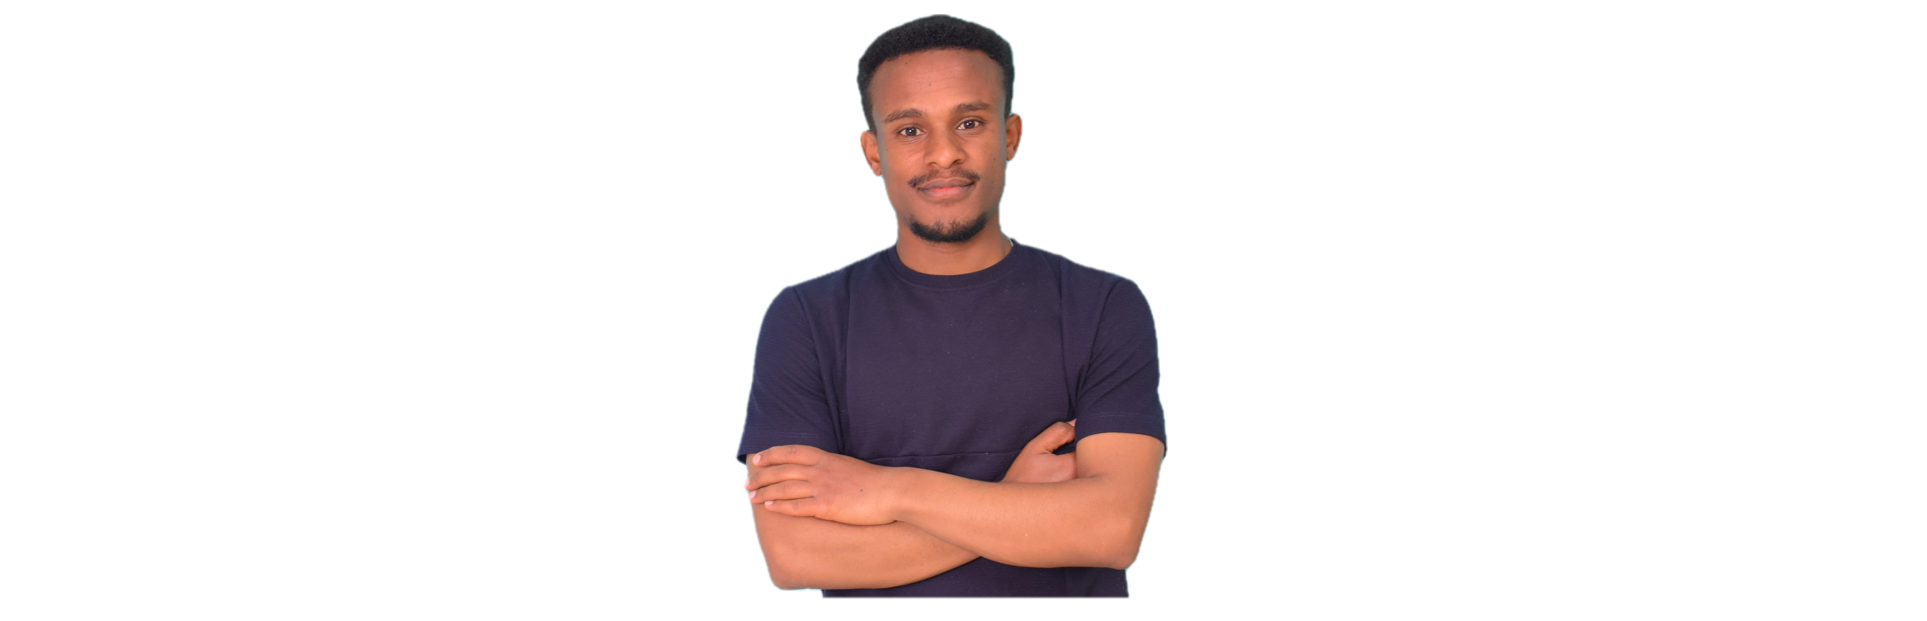
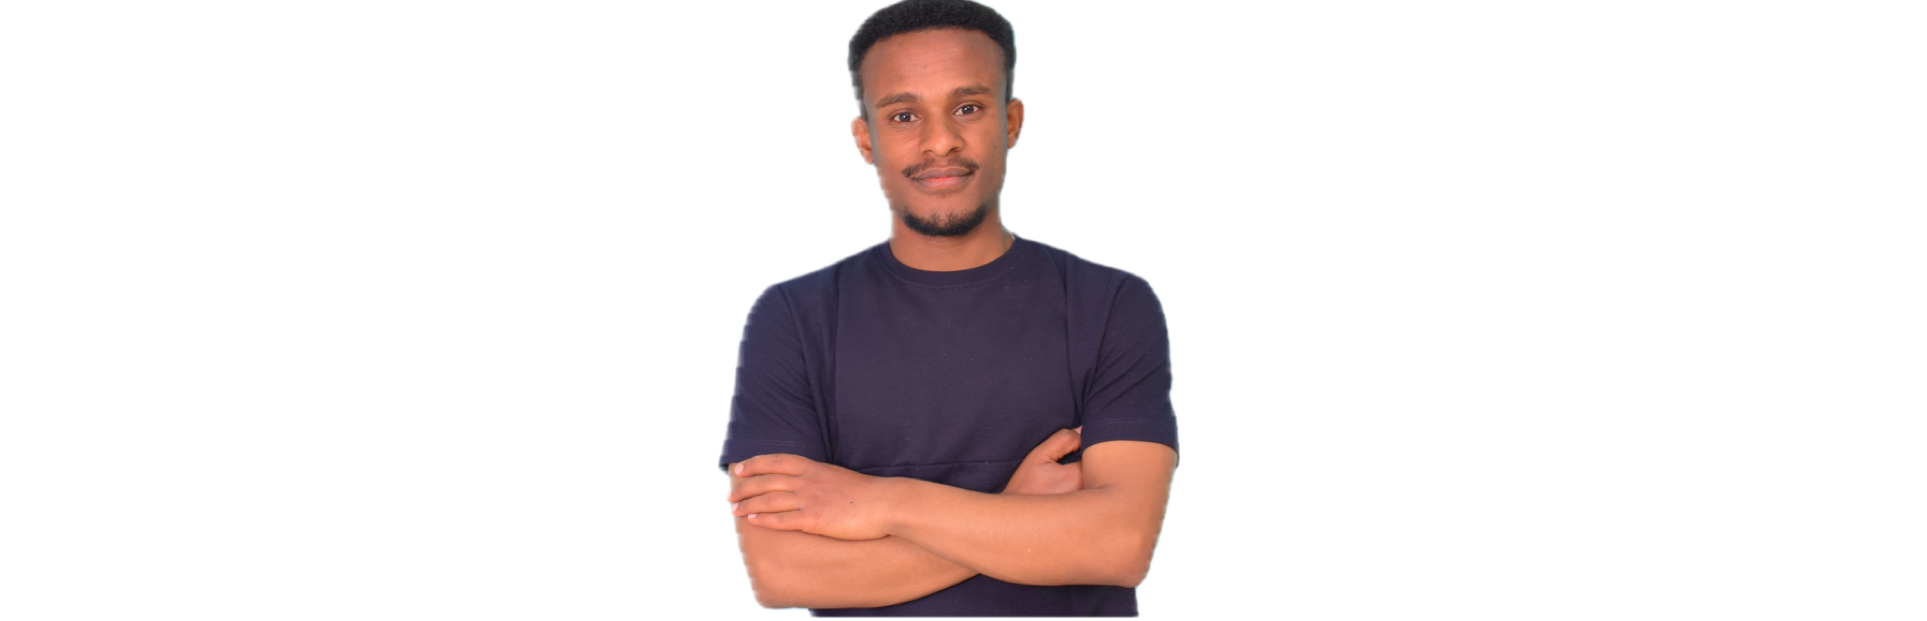
update photo

Changed region(s): [[0.3736, 0.4589, 0.6227, 1.0], [0.4359, 0.0, 0.5916, 0.4589], [0.4048, 0.4283, 0.4359, 0.4589]]

diff --git a/about.html b/about.html
@@ -5,25 +5,23 @@ description: This is what I do.
 background: '/img/hd.png'
 ---
 
-<p>I'm a machine learning Engineer, currently a 
-    graduate student of Machine intelligence at
-     <a href="https://aimsammi.org/">African Master's
-          in Machine intelligence(AMMI)</a>. AMMI is a 
-          fully funded scholarship sponsered by 
-          Facebook and Google. I got a bachelors degree in 
-        Electrical and Computer Engineering(Computer Engineering focus
-        area) from <a href="https://en.wikipedia.org/wiki/University_of_Gondar">University of Gondar</a>.</p>
+---
+layout: page
+title: About Me
+description: This is what I do.
+background: '/img/hd.png'
+---
 
-<p>Previusly I was working at 
-     <a href="https://singularitynet.io/">SingularityNet</a> 
-     as a Machine Learning Engineer.  I've 
-     worked on a Recommender system and third party website crawler for the Mindplex media.</p>
+<p>I'm an AI Engineer specializing in Natural Language Processing, Machine Translation, and Generative AI. I recently completed my Master's in Machine Learning at the African Institute for Mathematical Sciences (AIMS), as part of the African Master's in Machine Intelligence (AMMI) program, a fully funded scholarship supported by Google and Meta. My research focused on machine translation for low-resource African languages, including Ge’ez.</p>
 
-<p class="mb-5">I was a software develper intern at
-    <a href="https://icog-labs.com/">iCog Labs</a>  
-     AI and Software development. I have 
-     devloped an android app for the iCog-Labs company.
-      I have also worked on developing driver for 
-      a robotic face. </p>
+<p>Currently, I work as an NLP Engineer at <a href="https://batazia.com/">Batazia</a>, where I build and deploy scalable AI systems for African languages. My work includes fine-tuning large language and translation models (such as NLLB) using techniques like QLoRA, optimizing inference with vLLM and CTranslate2, and deploying production-ready systems using Docker, Kubernetes, AWS, and Azure. I have also developed conversational agents and speech-based assessment tools.</p>
 
-<p> Check my resume <a href="https://drive.google.com/file/d/1HwVbY6PHRtLhWEAyExBBzdljfz1QYfb9/view?usp=sharing">here</a>.</p> 
+<p>Previously, I worked as a Data Scientist at iQuartic, where I developed LLM-based systems for healthcare and policy analysis using Retrieval-Augmented Generation (RAG) and domain-specific fine-tuning. I also contributed to structuring unstructured medical data to improve downstream analytics.</p>
+
+<p>Earlier in my career, I worked at <a href="https://singularitynet.io/">SingularityNet</a> as a Machine Learning Developer, where I built recommendation systems and large-scale data crawlers for Mindplex media. I also interned at <a href="https://icog-labs.com/">iCog Labs</a>, where I developed mobile applications and worked on robotics and embedded AI systems.</p>
+
+<p>I am actively involved in the African AI community through initiatives like Masakhane and EthioNLP, focusing on advancing NLP for low-resource languages. I have co-authored multiple research papers in machine translation and African NLP.</p>
+
+<p class="mb-5">Feel free to explore my work on <a href="https://github.com/amaneth">GitHub</a> or connect with me on <a href="https://linkedin.com/in/aman-kassahun">LinkedIn</a>.</p>
+
+<p>Check my resume <a href="https://drive.google.com/file/d/1HwVbY6PHRtLhWEAyExBBzdljfz1QYfb9/view?usp=sharing">here</a>.</p>
